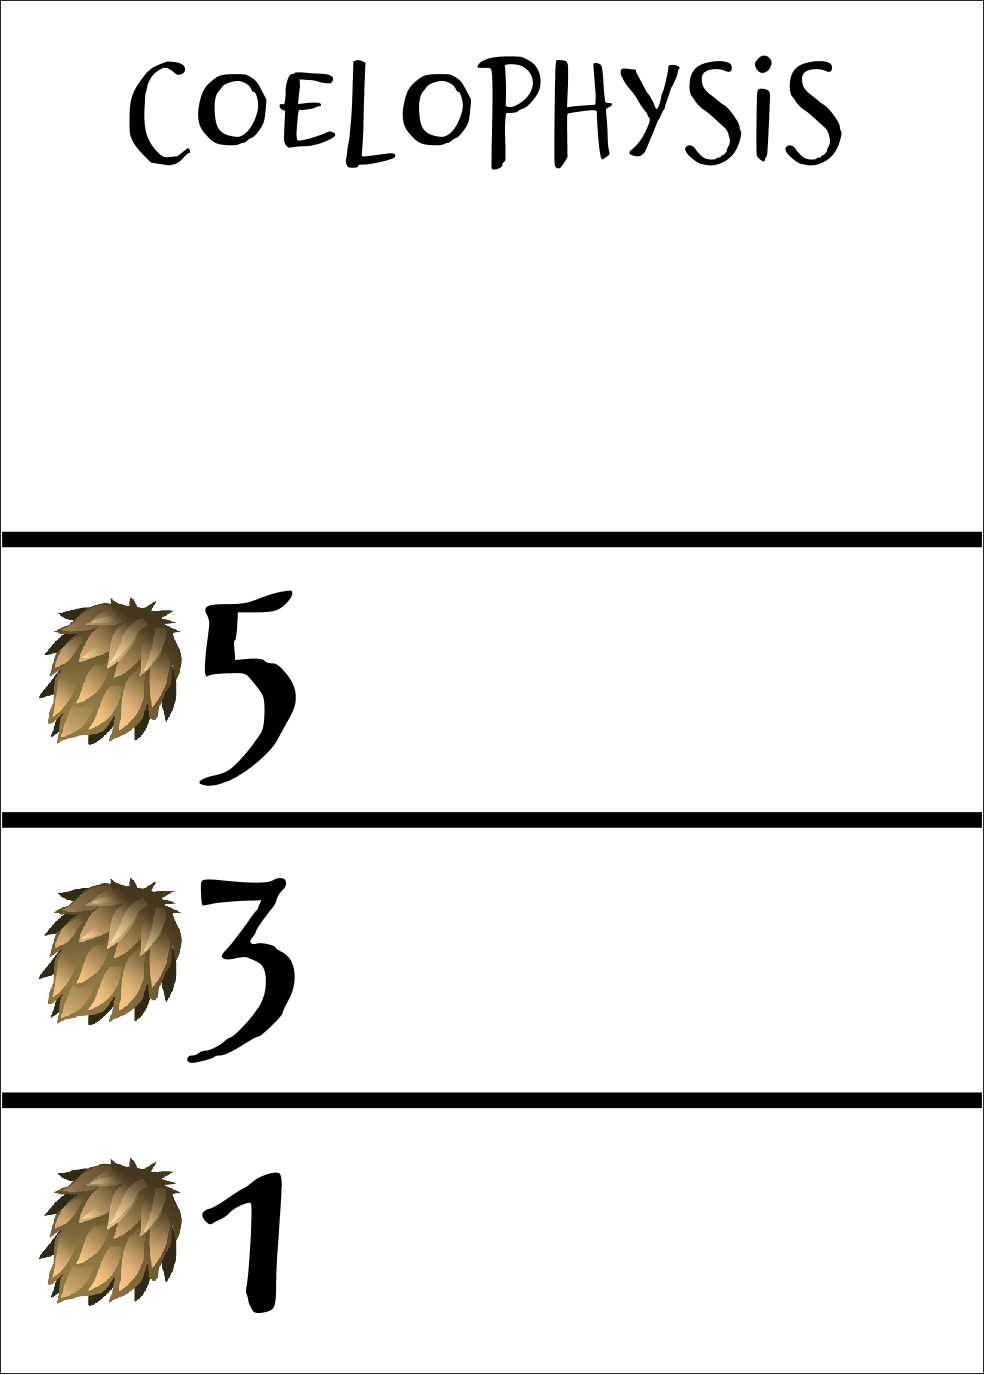
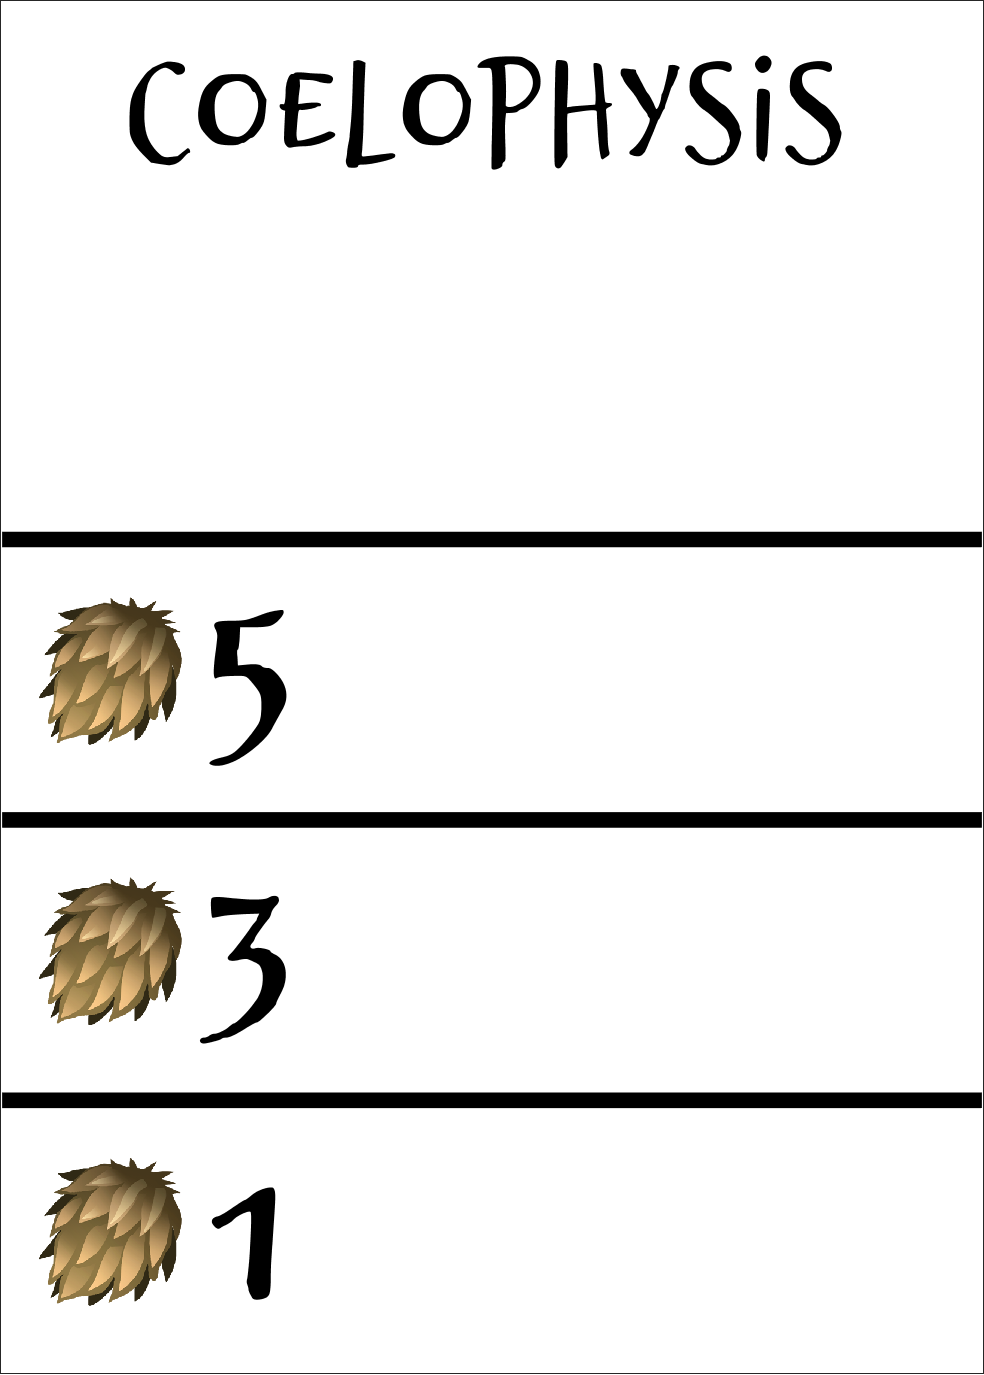
df3

diff --git a/DinoFarm/DF_generate_set_v0p1.m b/DinoFarm/DF_generate_set_v0p1.m
@@ -77,13 +77,13 @@ for ii = 1:length(ID)
                             [C,map,alpha]  = imread(title);
                             zoom = 0.7;
                             D = 14;
-                            cx = 7 + (pos-1)*25;
+                            cx = 7 + (pos-1)*21;
                             cy = 79 - (lev - 1)*18;
                             image('XData',[cx-D/2*zoom cx+D/2*zoom],'YData',[cy-D/2*zoom cy+D/2*zoom],'CData',C,'AlphaData',alpha);
 
-                            cx = 7 + (pos-1)*25;
+                            cx = 7 + (pos-1)*21;
                             cy = 70 - (lev - 1)*18
-                            text(cx+9,cy+10,num2str(Dresources(ii,res+(lev-1)*5)),'FontSize',150, 'HorizontalAlignment','center',...
+                            text(cx+9,cy+10,num2str(Dresources(ii,res+(lev-1)*5)),'FontSize',120, 'HorizontalAlignment','center',...
                              'VerticalAlignment','middle','Rotation',0,'Color','black','FontName','Brizel') 
                          
                             pos = pos +1;
